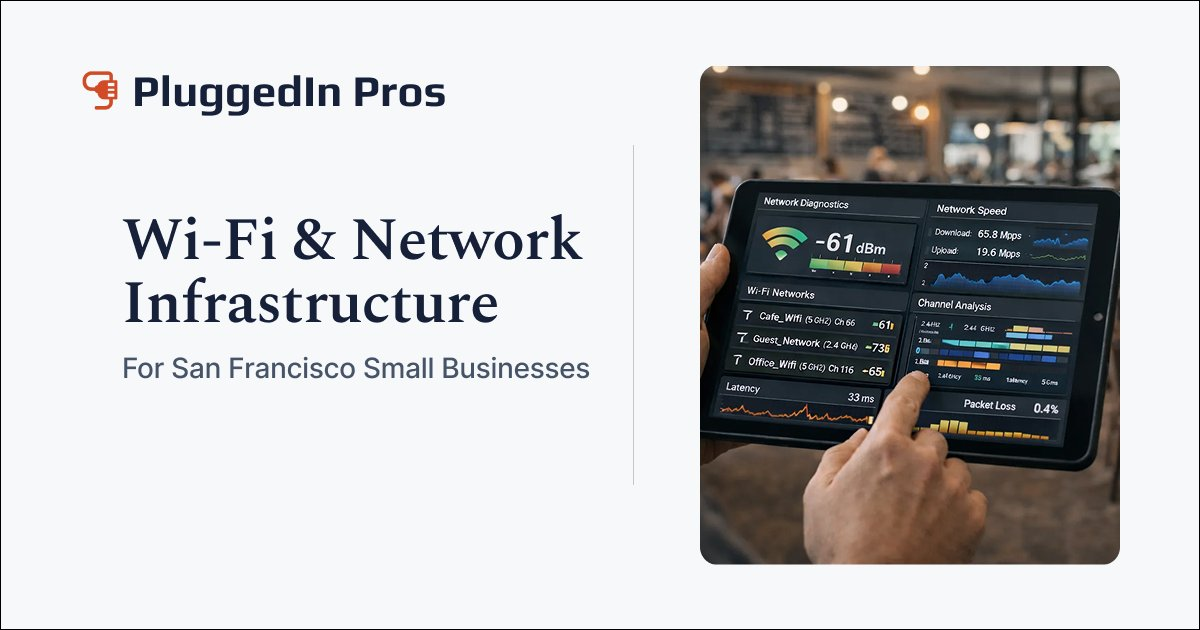
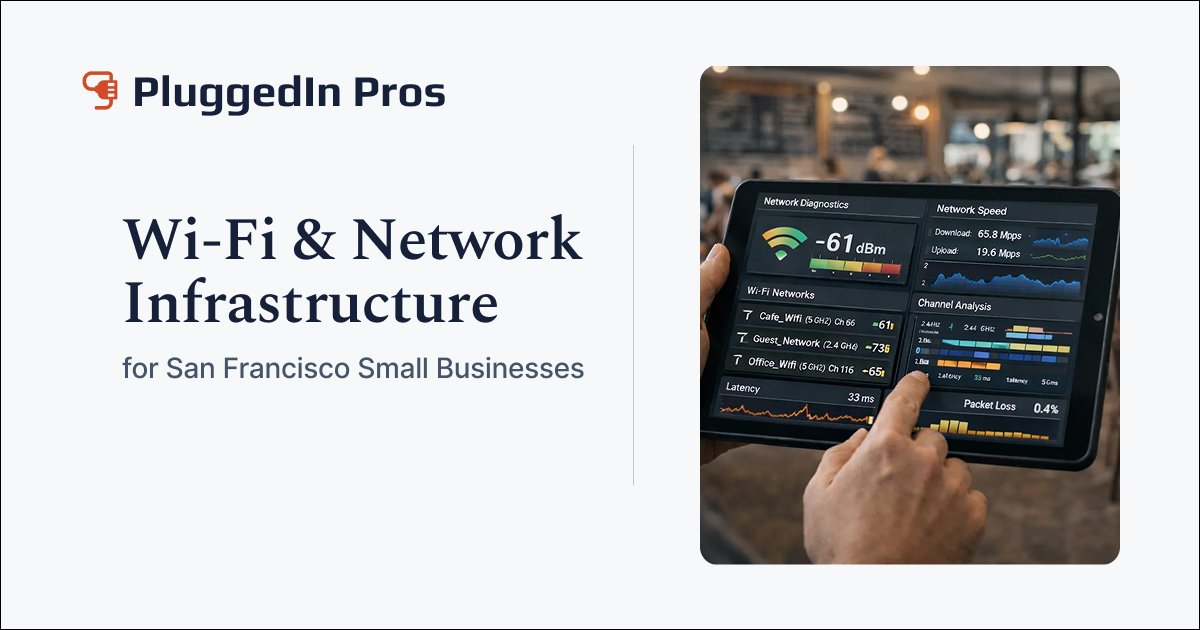
Add Open Graph image and refine global SEO metadata

Changed region(s): [[0.0925, 0.573, 0.4933, 0.6032]]

diff --git a/src/app/layout.tsx b/src/app/layout.tsx
@@ -17,9 +17,9 @@ export const metadata: Metadata = {
     "Wi-Fi and network infrastructure for San Francisco small businesses, including restaurants, retail shops, and offices.",
 
   openGraph: {
-    title: "Wi-Fi & Network Infrastructure for San Francisco Businesses",
+    title: "Wi-Fi & Network Infrastructure for San Francisco Small Businesses",
     description:
-      "Wi-Fi and network infrastructure for San Francisco small businesses, including restaurants, retail shops, and offices.",
+      "Reliable Wi-Fi, network troubleshooting, and infrastructure upgrades for San Francisco restaurants, retail shops, and offices.",
     url: "/",
     siteName: "PluggedIn Pros",
     locale: "en_US",